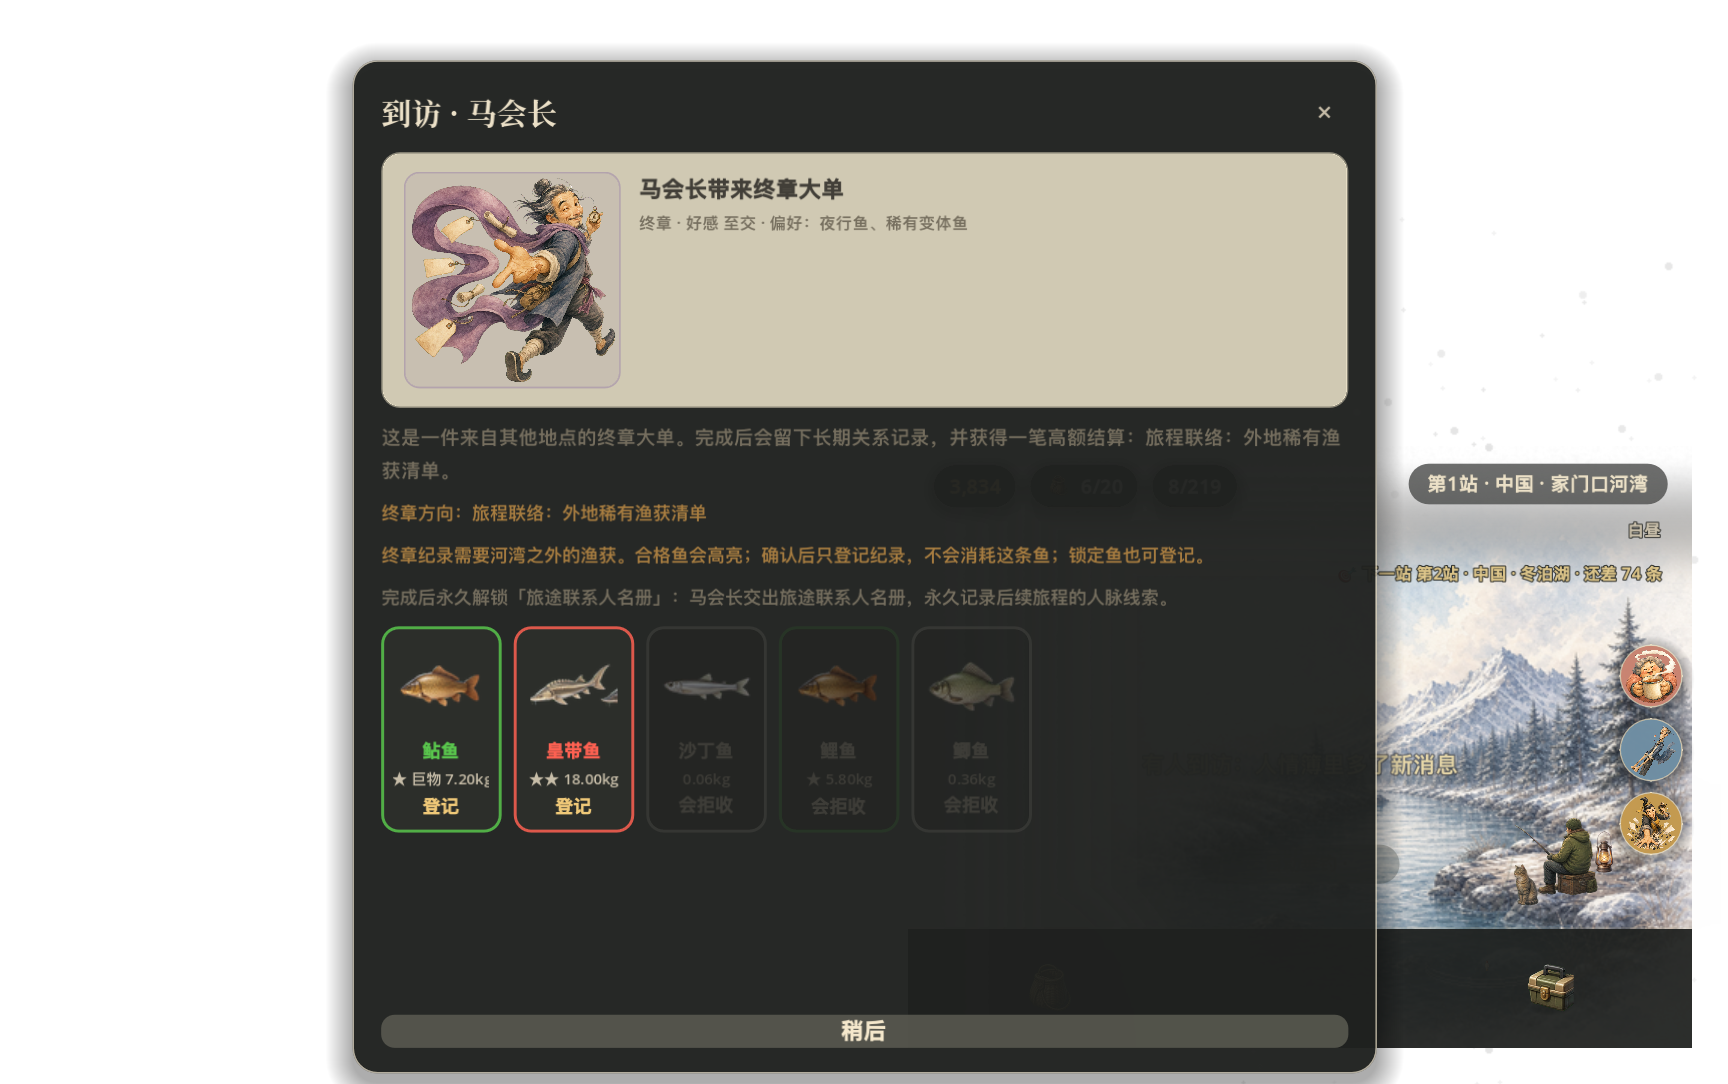
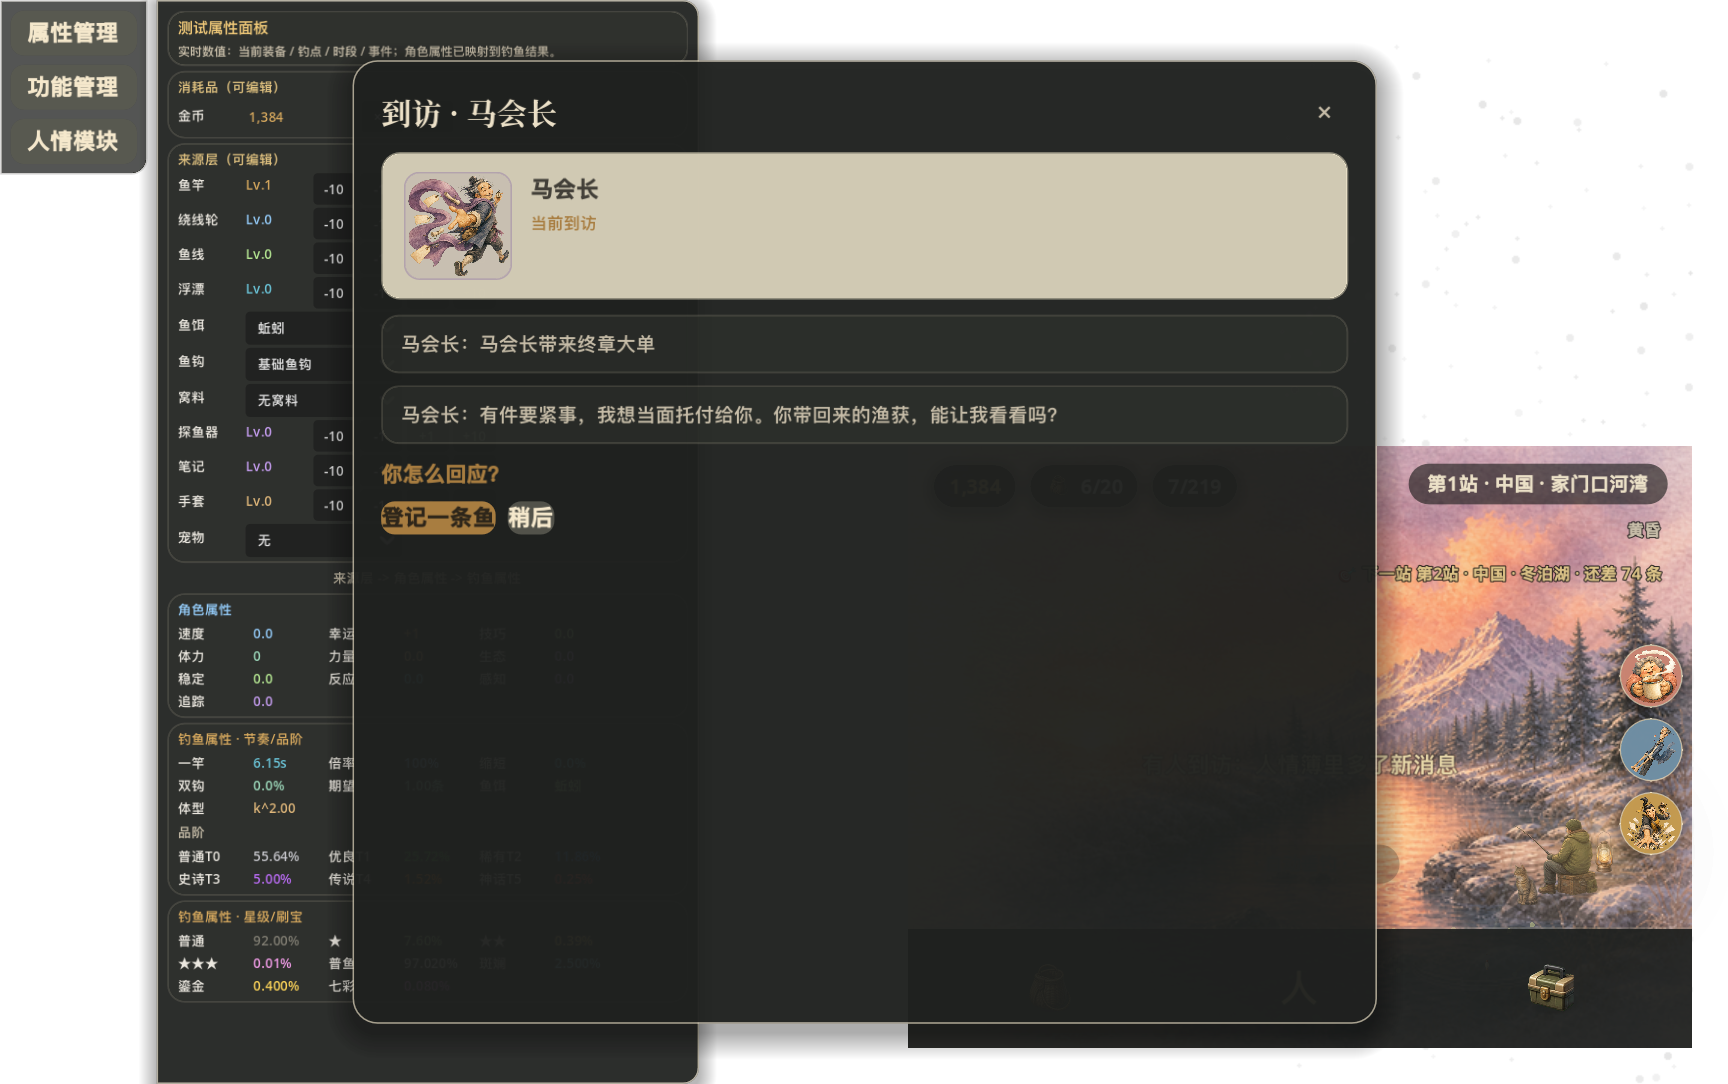
补齐到访对话化验证与文档
覆盖五类到访、反馈态与偏好揭示。

diff --git a/BACKLOG.md b/BACKLOG.md
@@ -31,6 +31,7 @@
 
 ## ✅ 决策日志(关键拍板,最新在上 —— 防止反复纠结已否决的方向)
 
+- **2026-07-20** Owner 选择到访页方案 B「聊天记录」：到访只展示当前人物、剧情台词、此刻抉择和选择后的 NPC 反馈；好感、近况、终章与偏好资料统一放回人情簿。偏好按好感 0–1／2–3／4–6 三阶段显示 `???`／模糊类别／完整规则；结算反馈不自动关闭，由玩家点击“结束这次到访”。**为什么**：到访应像一次正在发生的对话，而不是重复的人物资料和任务说明页；隐藏偏好也让关系推进具有逐步了解对方的感觉。
 - **2026-07-20** 人情 UI 的缺图回退统一改为可识别的文字占位：NPC 人物图加载失败时显示姓名首字，底部人情菜单暂无专属 icon 时显示「人」，已有五张水彩 NPC 图继续原样加载且不生成新素材。**为什么**：缺资源可以降级，但入口和任务人物不能表现为空白，玩家至少要能判断这里是谁、是什么功能。
 - **2026-07-20** 河湾五位 NPC 水彩人物图正式接入运行时，采用 Owner 确认的分层方案 B：右侧低频到访入口使用带主题色描边的圆形头像，人情簿使用动作缩略图，单人到访面板使用完整透明立绘；缺图继续回退主题色占位。**为什么**：小尺寸入口需要快速识别，阅读与交付面板又要保留五人各自的动作轮廓；单一圆形裁切会浪费立绘表现力，所有位置展示全图则会挤压文字与鱼篓操作区。
 - **2026-07-16** 修鱼篓卖鱼两处问题(分支 `fix/sell-sort-bugs`):①**「按品阶批量卖出」**(卖掉 XX 及以下一键清篓)交付时按钮计数没排除订单鱼、且 `order_matches` 不检查 `done`——重量类订单(收 ≥Wkg)一旦所有鱼都达标,批量卖出显示有货实则 0 条可卖,且交付订单后整篓鱼仍被永久拦截;改为 `done` 后 `order_matches` 返回 false 释放全部鱼。②**鱼卡外框改为始终按品阶着色**:原逻辑"有变体就用变体色",导致带斑斓变体的施氏鲟(tier4 橙)画成蓝边,品阶排序后看着像混在橙鱼里错位;变体身份已由 ◆ 前缀 + 名字品阶色表达,边框统一走品阶色后排序视觉成组。自测:真实存档经 headless Godot 验证品阶/价值排序单调、done 后 45/45 鱼解除拦截、可卖数恢复;validate_game.gd 0 失败。**为什么**:前者是会让玩家"卖不掉鱼"的严重交互 BUG(订单完成态反而锁死整篓),后者是数据正确但边框编码维度错配造成的视觉误判,两者都不该留到发布。

diff --git a/ROADMAP.md b/ROADMAP.md
@@ -52,7 +52,7 @@
 - [x] **角色属性二级映射接入结算**(旧装备仍是主轴;属性软上限修正周期/品阶/星级/变体/双钩/体型,开发面板同步展示最终指标)✅ 2026-07-08
 - [x] **装备/金币大数化**(经济量改 double 浮点大数,极端值钳制到 `1e300`;装备页/HUD 改 `K/M/B/T/Qa/Qi...` 短格式,不再用中文万/亿)✅ 2026-07-09
 - [x] **底部系统渐进开放**(开局只显示设置;3 条鱼开放鱼篓;卖鱼 300 开装备;装备消费 10K 开任务;默认钓点半图鉴开图鉴;第二钓点条件开地图;极品鱼开鱼缸;测试台可手动开关功能;存档 **v20**)✅ 2026-07-09
-- [x] **河湾人情簿（分阶段首版）**：五位 NPC 配置、独立七级好感存档、人情入口、总览、挂机到访队列、专属水彩头像／人情簿缩略图／到访透明立绘、到访送礼、10 分钟单槽 Buff、偏好鱼委托、跨地点终章大单与调试面板均已接入（v21）；v22 改为每位 NPC 独立 3 小时排程；v23 补齐五条一次性终章永久标记；v24 加入初识到旧交共 30 条一次性人物事件、跨级顺序补读与分级事件池，普通委托改为只发金币、仅成功送礼提升好感；头像或底栏 icon 缺失时均有文字占位，不再显示空白；后续继续扩写人物文本与三钓点联动效果。
+- [x] **河湾人情簿（分阶段首版）**：五位 NPC 配置、独立七级好感存档、人情入口、总览、挂机到访队列、专属水彩头像／人情簿缩略图／到访对话头像、到访送礼、10 分钟单槽 Buff、偏好鱼委托、跨地点终章大单与调试面板均已接入（v21）；v22 改为每位 NPC 独立 3 小时排程；v23 补齐五条一次性终章永久标记；v24 加入初识到旧交共 30 条一次性人物事件、跨级顺序补读与分级事件池，普通委托改为只发金币、仅成功送礼提升好感；到访已重构为聊天记录、当前抉择与选择后反馈，长期资料归人情簿，偏好按好感三阶段揭示；头像或底栏 icon 缺失时均有文字占位，不再显示空白；后续继续扩写人物文本与三钓点联动效果。
 - [ ] **219 鱼美术补齐**(现 99 条有专属图标 → 缺 120;缺图自动回退品阶通用图标不崩)
 - [ ] **7 个新钓点背景图**(数据已配,缺干净底图;**其中雪线溪谷 mountain_stream / 下山进城 urban_pond 在退款窗口内可达,列入上架 DoD 必须有图**)
 - [x] **README 文案同步真实数字**(鱼 106→219、存档 v11→v12;钓点守 3 不虚报)✅ 2026-06-23

diff --git a/README.md b/README.md
@@ -89,7 +89,7 @@ godot --headless -s tools/balance_probe.gd
 左侧开发入口可直接打开属性面板、功能管理与人情模块；属性面板可编辑金币（翻倍/减半）、装备来源层与宠物状态；测试台可强制昼夜时段、钓鱼提速（×3/×10/即时）、改金币、+1/拉满装备与背包、绕线轮升降/设级、给指定鱼（鱼种×星级×变体）、
 样本包/清空鱼篓、解锁全部钓点/点亮全图鉴、召唤鱼贩/重置订单/充能专注、立即触发随机事件；人情模块可召唤指定 NPC 的闲谈/委托/Buff/终章事件、打开人情簿或到访面板、mock 偏好鱼与终章鱼、调整好感等级、重置或完成终章。
 
-河湾五位 NPC 已使用专属水彩人物图：右侧到访栏显示主题色圆形头像，人情簿显示动作缩略图，到访面板显示完整透明立绘；资源缺失时安全回退到带姓名首字的主题色占位，底部人情菜单缺少专属 icon 时显示「人」字占位，不留空白入口。
+河湾五位 NPC 已使用专属水彩人物图：右侧到访栏显示主题色圆形头像，人情簿显示动作缩略图，到访面板使用紧凑对话头像；资源缺失时安全回退到带姓名首字的主题色占位，底部人情菜单缺少专属 icon 时显示「人」字占位，不留空白入口。到访页采用聊天记录式剧情与当前抉择，选择后停留显示 NPC 反馈；好感、近况、终章和偏好资料集中在人情簿，偏好按好感 0–1／2–3／4–6 三阶段显示未知／模糊线索／完整规则。
 
 **仅本会话生效、不写档**：进入即冻结磁盘存档，退出（切回游玩模式）从磁盘重载正式档、丢弃全部测试改动；
 默认重启回到正式档；如需启动即进入测试，可在 `main.tscn` 的 `Main` 节点 Inspector 勾选 `test_mode`。正式存档永不被测试数据污染，HUD 右上常驻「🧪测试」角标提示当前在测试模式。
